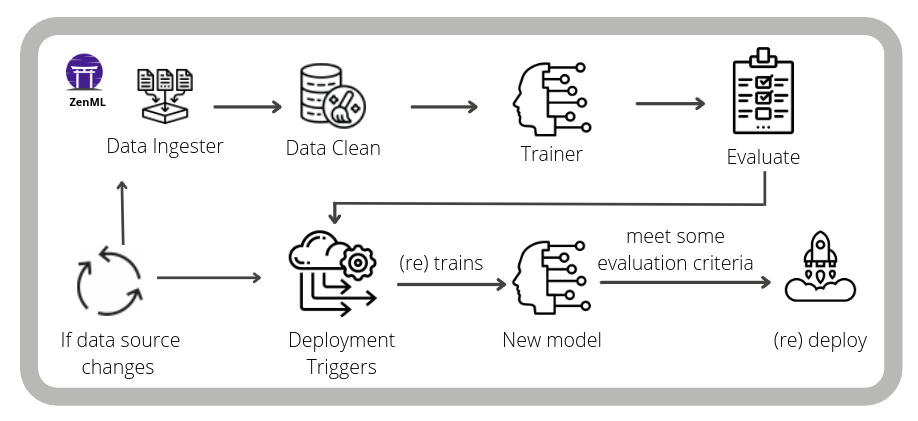
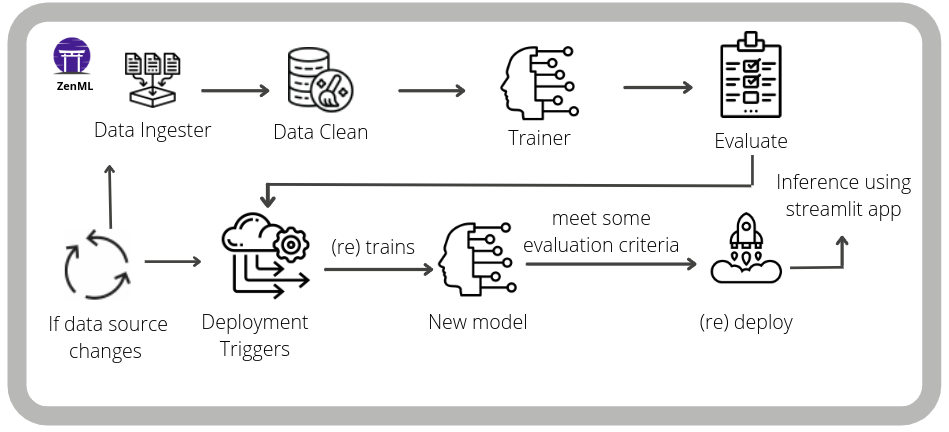
added the streamlit changes and readme changes

diff --git a/customer-satisfaction/streamlit_app.py b/customer-satisfaction/streamlit_app.py
@@ -3,7 +3,6 @@ import json
 import numpy as np
 import pandas as pd
 import streamlit as st
-from inference.predict import predict
 from PIL import Image
 from zenml.repository import Repository
 from zenml.services import load_last_service_from_step

diff --git a/customer-satisfaction/README.md b/customer-satisfaction/README.md
@@ -69,7 +69,13 @@ python run_deployment.py
 
 ## 🕹 Demo App
 
-We also made a live demo of this project using [Streamlit](https://streamlit.io/) which you can find [here](https://share.streamlit.io/ayush714/customer-satisfaction/main). It takes some input features for the product and predicts the customer satisfaction rate using our trained models.
+We also made a live demo of this project using [Streamlit](https://streamlit.io/) which you can find [here](https://share.streamlit.io/ayush714/customer-satisfaction/main). It takes some input features for the product and predicts the customer satisfaction rate using our trained models. If you want to run this streamlit app in your local system, you can run the following command:-
+
+```bash
+streamlit run streamlit_app.py
+```
+
+In the inference part of this application, we are fetching our continuous deployment pipeline from the initialized repository in order to predict the customer satisfaction score for the next order or purchase.
 
 ## :question: FAQ
 
